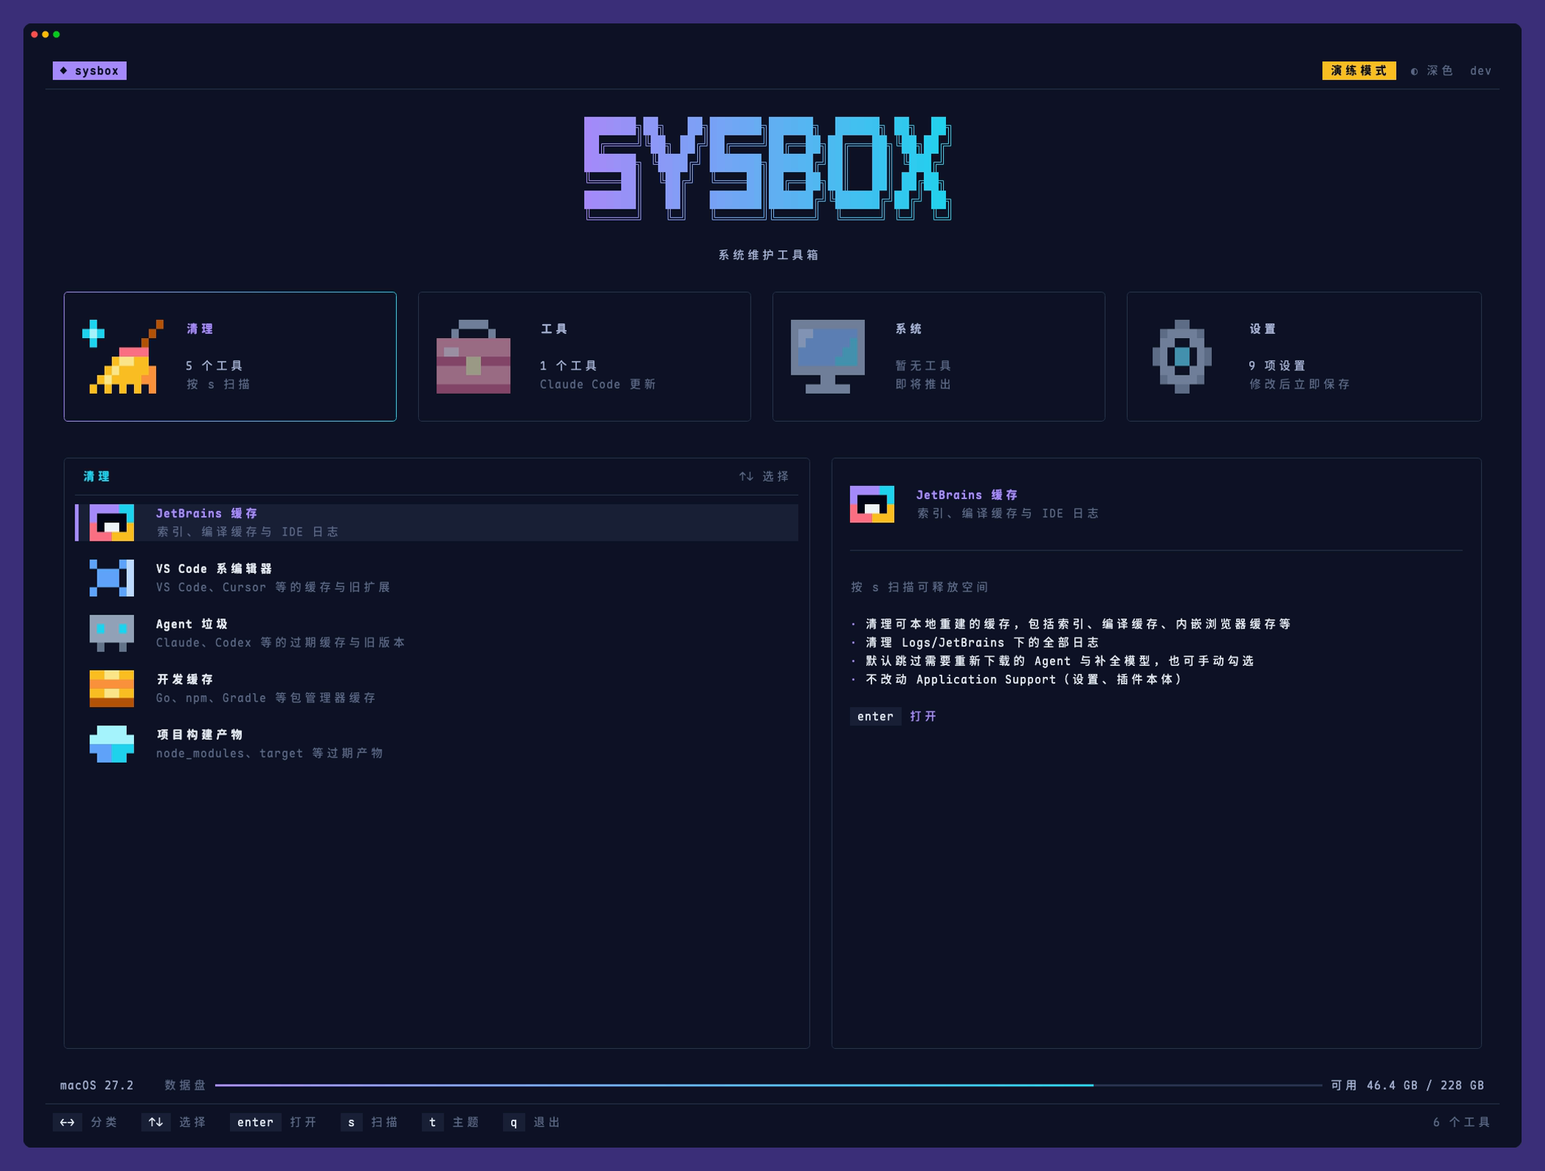
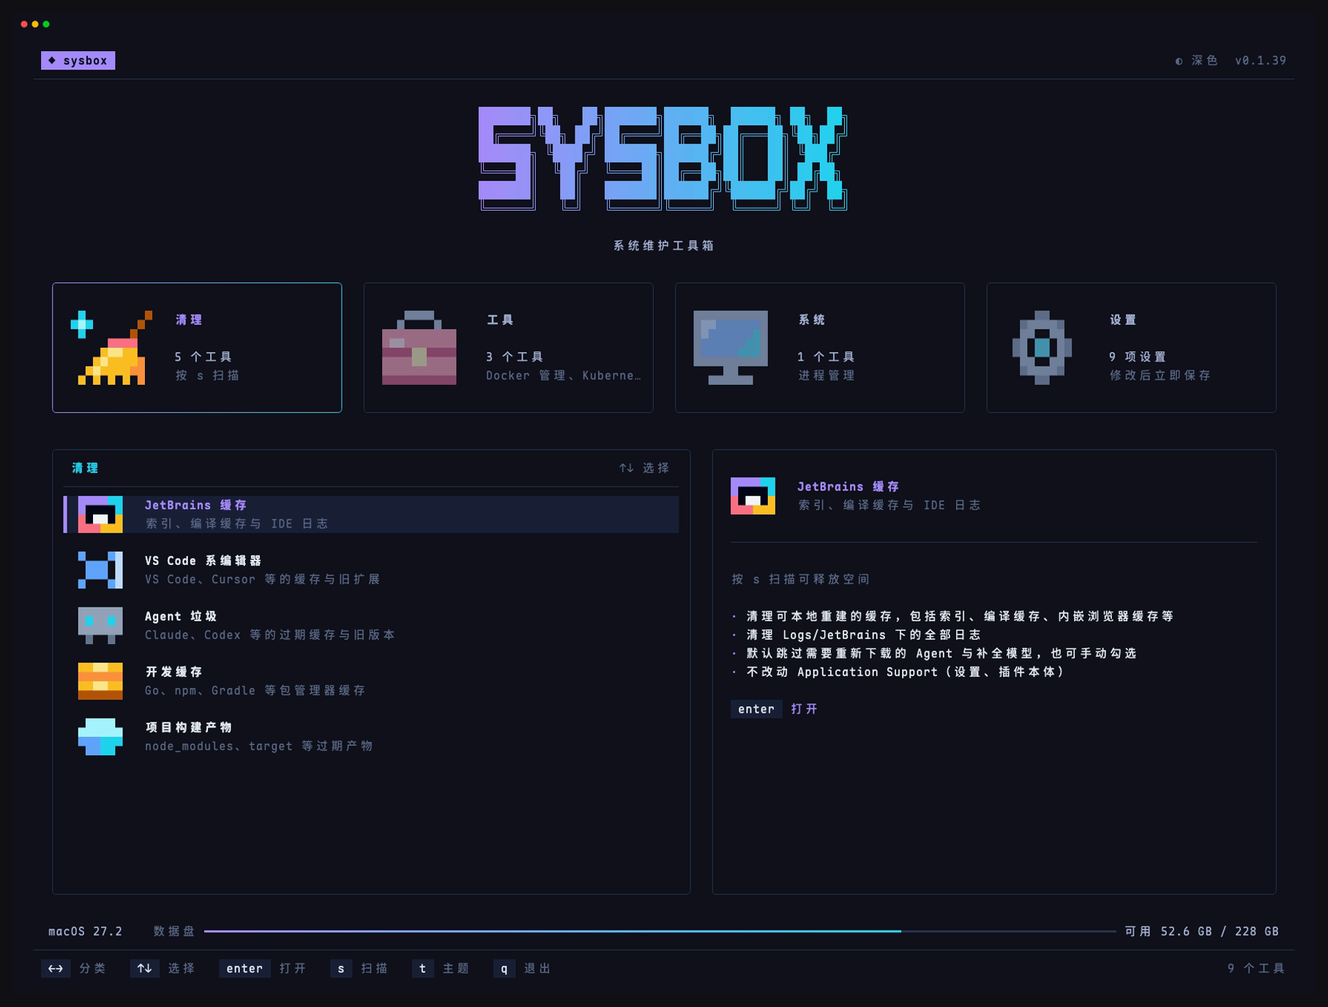
docs: 精简说明并更新工具截图

diff --git a/README.md b/README.md
@@ -1,31 +1,29 @@
-
-
-
-
 # sysbox
 
-跨平台的系统维护工具箱：把零散的清理和工具更新脚本收进一个终端界面，支持 macOS 与 Windows。
+macOS 与 Windows 上的终端系统维护工具箱，集中处理开发缓存清理、容器管理、进程排查和工具更新。
 
 ## 功能
 
-| 分组 | 工具 | 作用 |
+| 分类 | 工具 | 主要功能 |
 |---|---|---|
-| 清理 | JetBrains 缓存 | 清理索引、编译缓存与 IDE 日志；默认跳过需要重新下载的 Agent 与补全模型（可手动勾选），不碰设置与插件目录 |
-| 清理 | VS Code 系编辑器 | 清理 VS Code、Insiders、Cursor、Windsurf、Trae 的旧扩展、旧服务端、可重建缓存、日志和崩溃报告；设置、当前引用版本和未知目录默认不勾选，可手动纳入 |
-| 清理 | Agent 垃圾 | 默认清理 Claude、Codex、OpenCode 等超过保留期的缓存；近期缓存、日志、旧版本和疑似备份可手动勾选 |
-| 清理 | 开发缓存 | 清理 Go、npm、pnpm、Yarn、Bun、pip、uv、Gradle、Maven、Cargo、Homebrew 的缓存；构建依赖默认不勾选 |
-| 清理 | 项目构建产物 | 查找长期未活动项目的 node_modules、target、build、.venv 等构建产物 |
-| 工具 | Docker 管理 | 筛选容器与镜像，批量启停、查看日志、进入终端、拉取与删除镜像 |
-| 工具 | Kubernetes 管理 | 切换集群和命名空间，管理 Deployment、ConfigMap、Pod、Node |
-| 工具 | Claude Code 更新 | 断点续传下载指定版本，SHA-256 校验后调用官方安装 |
-| 系统 | 进程管理 | 定时刷新进程与端口，按资源占用排序，查看父子进程、网络连接与环境变量 |
-| 设置 | 配置项 | 在首页直接修改主题、列表图标、界面动画、更新检查、清理保留天数、项目扫描目录与 Claude 下载代理，修改后立即保存 |
+| 清理 | JetBrains 缓存 | 清理 IDE 索引、编译缓存与日志 |
+| 清理 | VS Code 系编辑器 | 清理 VS Code、Cursor、Windsurf、Trae 等编辑器的缓存、旧扩展与旧服务端 |
+| 清理 | Agent 垃圾 | 清理 Claude、Codex、OpenCode 等工具的过期缓存与旧版本 |
+| 清理 | 开发缓存 | 清理 Go、npm、pnpm、pip、uv、Gradle、Maven、Cargo 等开发工具的缓存 |
+| 清理 | 项目构建产物 | 查找旧项目中的 node_modules、target、build、.venv 等产物 |
+| 工具 | Docker 管理 | 查询容器与镜像，批量启停、查看实时日志、进入终端、拉取与删除镜像 |
+| 工具 | Kubernetes 管理 | 切换集群与命名空间，管理 Deployment、ConfigMap、Pod、Node |
+| 工具 | Claude Code 更新 | 下载指定版本，校验后调用官方安装 |
+| 系统 | 进程管理 | 查看 CPU、内存、端口、网络连接、父子进程与环境变量，搜索并结束进程 |
+| 设置 | 首页设置 | 调整主题、动画、保留天数、扫描目录、下载代理与更新检查 |
 
-清理操作执行前会确认；Docker 与 Kubernetes 的日常管理使用快捷键直接执行，删除资源和排空节点采用就地确认。加上 `--dry-run` 可以完整走一遍流程而不做任何修改。首页按 `s` 可以一次扫描全部清理工具，列出各自可释放的空间与合计。
+支持一键扫描可释放空间、深浅主题和键盘操作。清理前可勾选条目并确认，也可用 `--dry-run` 演练流程。
+
+Docker 管理需要 Docker CLI 与运行中的引擎；Kubernetes 管理需要 kubectl 与集群访问权限。
 
 ## 安装
 
-支持 macOS 与 Windows，x86_64 与 ARM 架构均可。
+支持 macOS 与 Windows 的 ARM64、x86_64 版本。
 
 macOS：
 
@@ -33,192 +31,45 @@ macOS：
 curl -fsSL https://raw.githubusercontent.com/KevinXC5/sysbox/main/install.sh | bash
 ```
 
-默认安装到 `~/.local/bin/sysbox`，可用 `SYSBOX_INSTALL_DIR` 指定目录，用 `SYSBOX_VERSION=v0.1.12` 安装指定版本。
-
 Windows（PowerShell）：
 
 ```powershell
 irm https://raw.githubusercontent.com/KevinXC5/sysbox/main/install.ps1 | iex
 ```
 
-默认安装到 `%LOCALAPPDATA%\Programs\sysbox` 并加入用户 PATH，当前终端可直接运行 `sysbox`，同样支持 `SYSBOX_INSTALL_DIR` 与 `SYSBOX_VERSION` 环境变量。建议使用 Windows Terminal 运行。
-
-## 升级
-
-- 界面每次启动时检查一次新版本，有更新时顶栏会提示，首页按 `u` 查看更新内容并升级、重启
-- 也可以在命令行执行 `sysbox update`，升级前会列出更新内容
-- 在首页「设置」中关闭「启动时检查更新」，或在配置文件中设置 `"update": {"disable_check": true}`，可关闭自动检查
-
-## 卸载
-
-```bash
-sysbox uninstall          # 删除程序，Windows 上同时从用户 PATH 移除安装目录，保留配置文件
-sysbox uninstall --purge  # 同时删除配置目录
-```
-
-卸载前会列出要执行的操作并确认，加 `-y` 跳过确认，加 `--dry-run` 只查看不执行。
+也可以从 [GitHub Releases](https://github.com/KevinXC5/sysbox/releases/latest) 下载。Windows 建议使用 Windows Terminal。
 
 ## 使用
 
 ```bash
-sysbox                 # 打开界面
-sysbox jetbrains       # 直接打开某个工具，工具名见 sysbox list
-sysbox vscode          # 清理 VS Code、Cursor 等编辑器的旧版本、缓存与日志
-sysbox devcache        # 清理包管理器与构建工具的缓存
+sysbox                 # 打开工具箱
+sysbox list            # 列出全部工具
+sysbox devcache        # 直接打开开发缓存清理
 sysbox docker          # 管理 Docker 容器与镜像
 sysbox k8s             # 管理 Kubernetes 资源
-sysbox processes       # 查看进程、端口与环境变量
-sysbox projects        # 清理长期未活动项目的构建产物
-sysbox --dry-run vscode # 演练 VS Code 清理，不删除文件
-sysbox --dry-run       # 演练模式
-sysbox --theme light   # 指定主题：auto、light、dark
-sysbox list            # 列出全部工具
-sysbox update          # 升级到最新版本
-sysbox version         # 显示版本号
+sysbox processes       # 查看进程与端口
+sysbox --dry-run       # 演练模式，不执行修改
 ```
 
-通用按键：`↑↓` 移动，`enter` 确认，`esc` 返回，`t` 切换主题，`ctrl+c` 退出。各页面的其余按键显示在底栏。
+使用方向键选择、`enter` 确认、`esc` 返回；各工具的快捷键显示在界面底栏。主题默认跟随终端，按 `t` 切换。常用配置可以在首页「设置」中直接修改。
 
-主题默认跟随终端背景色自动选择深色或浅色，按 `t` 在 自动 → 浅色 → 深色 之间切换，选择会被记住。
+## 更新与卸载
 
-### 首页
-
-- 顶部是「清理」「工具」「系统」「设置」四个分类方块，用 `←→` 切换；下方列出当前分类的条目，用 `↑↓` 选择，右侧显示详情。
-- 按 `s` 一次扫描全部清理工具，方块和列表显示各自可释放的空间，底栏显示合计；从工具返回首页时会重新统计该工具
-- 「设置」分类里的配置项按 `enter` 切换取值，扫描目录、代理地址等文字配置按 `enter` 编辑，修改后立即写入配置文件
-- 打开工具时分类方块向上收成顶部的分类条，返回首页时再展开；动画约 0.2～0.3 秒，可在「设置」中关闭
-- 图标用字符色块绘制，不依赖字体，需要终端支持真彩色；窗口达到约 50 行时显示大字 Logo
-
-### 进程管理
-
-从「系统」打开「进程管理」，或运行 `sysbox processes`。全宽表格显示进程、CPU、内存、用户和监听端口，默认按 CPU 降序排列，每 2 秒自动刷新。进入页面不选中任何进程，按方向键后才显示高亮，高亮保持在当前行。按 `enter` 打开接近主体全屏的详情弹窗，同时以三列查看基本信息、端口与连接、环境变量；弹窗绑定进程身份，刷新时保持详情滚动位置。
-
-- `/` 搜索名称、PID、完整命令、端口与地址，多个查询词都需匹配。文本支持模糊匹配，纯数字精确匹配 PID 或监听/绑定端口；`port:5353` 只查监听/绑定端口，`pid:5353` 只查 PID，数字不匹配命令行或活动连接；弹窗中 `f` 查询详情。`enter` 完成查询，`esc` 清空查询。
-- `s` 切换 CPU、内存、名称、PID、监听端口排序，`S` 切换升降序。端口排序取最小监听或绑定端口，无端口的进程始终排最后。
-- `p` 暂停或恢复自动刷新，`i` 在 1、2、5 秒之间切换间隔，`r` 手动刷新并重新读取当前进程环境。采集不会重叠，CPU 按两次采样的累计时间差计算，100% 表示一个逻辑核心，首次采样需要等待基线。
-- 表格中 `↑↓` 选择进程，`enter` 打开详情，`esc` 取消选择，再按一次返回首页。弹窗中基本信息、端口与连接、环境变量同时显示，默认高亮基本信息列；`←→` 切换当前列，`↑↓` 只滚动当前列，各列保留独立的滚动位置，`esc` 关闭弹窗。
-- 基本信息包含完整命令、路径、用户、启动时间和父子进程。端口列表显示 TCP 监听与 UDP 绑定，右侧包含活动连接；部分进程的信息可能受权限限制。
-- 环境变量按需读取，代理变量优先显示，并对比当前进程和父进程的代理变量。凭据与代理认证默认遮蔽，详情弹窗按 `v` 显示或隐藏原始值。环境读取失败会明确提示原因；父子差异用于排查当前环境，不代表启动时的完整继承历史。
-- `space` 多选，`d` 请求正常结束，`D` 强制结束；在弹窗中按 `y` 确认或 `esc` 取消。操作前重新核对进程身份。macOS 正常结束发送 SIGTERM；Windows 正常结束请求关闭应用窗口，无窗口进程需要程序自己的退出方式或强制结束。
-
-运行 `sysbox --dry-run processes` 可演练结束操作，进程、端口和环境仍正常读取。进程管理只查看现有环境，代理变量应在启动方配置并传给子进程。
-
-### Docker 管理
-
-从「工具」打开「Docker 管理」，或运行 `sysbox docker`。需要安装 Docker CLI 并启动 Docker 引擎，支持 Docker Desktop、OrbStack 与已有的远程 Docker context。
-
-界面左侧五分之二是资源列表，右侧五分之三是选中资源的信息表。资源筛选位于左侧列表上方，资源标签以底色标识当前选中项，旁边提示 `Tab` 切换资源。`←→` 切换左右面板，高亮边框标识当前面板；左侧 `↑↓` 选择资源，右侧 `↑↓` 滚动内容。选择资源时信息自动更新，表格上方显示当前可用的操作快捷键。信息表按卷与挂载、网络与端口、运行配置、资源与权限、健康检查、日志与存储分组，显示卷名、源路径、目标路径、读写方式、IP、网关、DNS、环境变量、CPU 和内存限制等。镜像显示声明卷、入口程序、启动参数、健康检查、镜像层，以及关联容器的实际挂载。敏感环境变量值隐藏。界面只显示操作结果和资源信息。
-
-- `Tab` 切换容器和镜像（`Shift+Tab` 反向），`/` 实时模糊查询，`r` 刷新，`c` 就地切换 Docker 环境，仅影响当前工具。
-- 容器：`l` 实时日志，`e` 直接进入默认 `/bin/sh`，`E` 输入其他 Shell，`s` 启动、停止或恢复（按状态变化），`R` 重启，`a` 暂停，`d` 删除。
-- 镜像：`p` 输入镜像名称拉取（默认填入当前镜像），`P` 拉取所有本地有标签的镜像，`s` 创建容器，`g` 添加标签，`d` 删除。镜像名称、容器名称和标签直接在右侧输入，按 `enter` 执行。创建容器使用镜像默认命令、后台运行，不自动配置端口和目录挂载。
-- `space` 多选容器或镜像，随后使用对应快捷键批量操作，提示只显示所选资源共有的操作。日志和终端针对当前光标所在资源；筛选隐藏的已选项仍参与批量操作，底栏显示已选数量。
-- 实时日志显示在右侧，打开后持续接收并自动滚到底部。按 `space` 暂停或恢复自动滚动；暂停时继续接收新日志并显示数量，恢复后回到最新内容。右侧使用 `↑↓` 逐行滚动、`PgUp/PgDn` 翻页、`ctrl+u/ctrl+d` 逐段滚动，手动滚动会自动暂停跟随。`b` 或 `esc` 返回基础信息，选择其他资源后自动关闭旧日志连接。日志保留最近 2000 行且最多 2 MiB，暂停时保持当前阅读快照。
-- 删除按 `d` 后在右侧列出目标，按 `y` 确认，`esc` 取消。容器需要先停止，删除保留卷和镜像；镜像只删除所选标签，无标签镜像按 ID 删除，不强制删除使用中的镜像。
-
-资源查询支持名称、ID、镜像、状态、命名空间等字段，不区分大小写，支持跳字匹配及多个空格分隔的关键词。例如 `ngnx run` 可查找运行中的 nginx 容器。输入时 `↑↓` 选择，`enter` 保留查询并恢复快捷键，`esc` 一次清空。右侧按 `f` 模糊查询字段和内容，例如查询“挂载”可直接定位卷与挂载信息，日志同样支持内容查询。环境和命名空间选择列表可直接输入名称模糊查询。
-
-运行 `sysbox --dry-run docker` 可演练操作；列表、基础信息和日志正常读取，修改仅显示操作摘要，不会执行。
-
-### Kubernetes 管理
-
-从「工具」打开「Kubernetes 管理」，或运行 `sysbox k8s`。需要安装 `kubectl`，通过 kubeconfig 配置集群，并具有对应资源的访问权限。
-
-左侧列出资源，右侧自动显示基础信息表，包括命名空间、创建时间、副本数、容器就绪状态、镜像、节点地址和容量等。`/` 支持多个关键词和跳字匹配，`f` 查询右侧信息或日志；集群、命名空间和 Pod 容器选择时可直接输入名称过滤。表格上方按当前资源显示快捷键，日常操作直接执行，参数就地输入。`←→` 切换左右面板，边框高亮当前面板；左侧 `↑↓` 选择资源，右侧 `↑↓` 滚动信息。
-
-- `Tab` 切换 Deployment、ConfigMap、Pod、Node（`Shift+Tab` 反向），`/` 实时模糊查询，`r` 刷新。
-- `c` 就地选择集群，`n` 选择命名空间；没有列出命名空间的权限时，按 `N` 手动输入。选择 `*` 可查看全部命名空间，节点始终按集群范围查询。
-- 工具不改写全局 kubeconfig。操作始终绑定所选集群和资源自身的命名空间。
-- Deployment：`l` 实时日志，`s` 输入副本数并扩缩容，`R` 滚动重启，`u` 发布状态，`e` 编辑 YAML。副本数可设为 `0`。
-- ConfigMap：`e` 编辑 YAML，遵循 `KUBE_EDITOR` / `EDITOR` 设置，保存后提交到集群。
-- Pod：`l` 全部容器实时日志，`e` 进入 `/bin/sh`；多个容器时直接在右侧选择。`d` 删除，控制器管理的 Pod 通常会自动重建。
-- Node：`s` 禁止或恢复调度，`D` 排空。排空遵守 PDB、忽略 DaemonSet，不强制驱逐有本地数据或非托管的 Pod；排空失败后节点可能仍禁止调度，可按 `s` 恢复。
-- 实时日志默认自动滚动，按 `space` 暂停或恢复；暂停时继续接收。切换资源、返回详情或离开工具时关闭日志连接。
-- `v` 查看 YAML，`i` 查看详细状态；内容显示在右侧，`PgUp/PgDn` 翻页，`b` 返回基础信息。
-- 删除和节点排空在右侧就地确认，按 `y` 执行。`sysbox --dry-run k8s` 仅显示操作摘要，交互编辑和容器终端也不会执行。
-
-### VS Code 系编辑器
-
-从首页选择「VS Code 系编辑器」，或运行 `sysbox vscode`。支持 macOS 与 Windows 上默认目录中的 VS Code、VS Code Insiders、Cursor、Windsurf、Trae、Trae CN，以及当前用户目录中对应的远程服务端。
-
-- 默认可清理的是可重建缓存、扩展安装包缓存、日志、崩溃报告，以及已确认落后且未被引用的旧扩展。
-- 设置、快捷键、工作区状态、未保存文件备份、当前引用版本、同平台最新版本和未知目录默认不勾选。手动勾选后按不可恢复处理，删除前会再核对一次。
-- 旧服务端仅在版本信息足够时列出，默认不勾选。手动清理前请停止相关服务端，再次连接相应版本时需要重新下载。读不到版本的安装不能勾选。
-- 扩展索引缺失或损坏时整组不可选。符号链接不跟随目标。应用数据、扩展目录和服务端根目录本身不会删除。不扫描自定义数据目录或便携安装目录。
-
-清理前需要退出所选条目涉及的编辑器，未勾选的编辑器可以继续运行。先运行 `sysbox --dry-run vscode` 可查看扫描结果并演练清理流程。
-
-### 开发缓存
-
-从首页选择「开发缓存」，或运行 `sysbox devcache`。
-
-- 默认勾选只影响下次安装速度的缓存：Go 构建缓存，npm、Yarn、Bun、pip、uv、Homebrew 的下载缓存，Gradle 构建缓存，Cargo 解压的源码。
-- 构建依赖默认不勾选，删除后需要联网重新下载：Go 模块缓存、pnpm store、Gradle 依赖缓存、Maven 本地仓库、Cargo 压缩包缓存。Maven 仓库里 `mvn install` 安装的构件删除后无法重新下载。
-- Gradle 的 `caches/<版本>`、`daemon/<版本>` 与 `wrapper/dists` 只保留最高版本。
-- 缓存位置优先询问工具本身（如 `go env`），其次读取 `GOMODCACHE`、`GRADLE_USER_HOME`、`CARGO_HOME` 等环境变量，最后使用默认位置。Go 与 uv 调用官方清理命令，其余直接删除目录；符号链接不能勾选。
-- pnpm store 被项目的 node_modules 以硬链接引用，项目仍在时实际释放会少于显示大小。
-
-### 项目构建产物
-
-从首页选择「项目构建产物」，或运行 `sysbox projects`。
-
-- 在项目目录下查找 node_modules、.next、target、build、dist、.gradle、.dart_tool、.build、obj、bin、.venv 等构建产物。产物旁必须有对应的项目文件（如 package.json、Cargo.toml、pom.xml、build.gradle、*.csproj）才会列出。
-- build、target、bin、obj 这类常见目录名还要有构建工具留下的特征才算产物，如 Gradle 的 classes、libs、tmp，Maven 的 classes、maven-status、jar 包，Cargo 的 CACHEDIR.TAG。前端的 build、dist 要求有网页资源，并由 git 确认已被忽略且没有受控文件；没装 git 或不在仓库里的不列出。
-- 项目的活跃时间取 `.git` 状态文件与浅层源码的最新修改时间。超过保留期未活动的项目默认勾选，近期项目可手动勾选。Python 虚拟环境默认不勾选。
-- 未配置 `projects.roots` 时扫描整个家目录。不跟随符号链接，不进入 Library、AppData、图片与影音目录、Scoop 与 Conda 安装目录、Go 模块缓存和隐藏目录。
-
-### Agent 垃圾
-
-从首页选择「Agent 垃圾」，或运行 `sysbox agent`。
-
-- 默认勾选超过保留期的缓存。日志、保留期内仍有修改的缓存默认不勾选，可手动纳入。
-- 能确认的旧版本默认勾选；当前版本和最高版本不列入清理。当前版本通过版本链接确认；Windows 上 Claude 的 claude.exe 是从版本目录复制出来的独立文件，只保留最高版本（可能是已下载、尚未安装的更新）。
-- 无法确认当前版本时（如 Windows 上的 Codex、Grok），候选版本进入待核查，默认不勾选，可手动删除。单文件安装的疑似备份同样如此。
-- 目录内指向外部的符号链接、检查失败的条目不能勾选。删除前复核路径、inode 和当前版本，目标有变化会跳过。会话、凭据、插件和配置不在扫描范围内。
-
-## 配置
-
-首页「设置」分类可以直接修改下列配置，修改后立即写入配置文件。配置文件位于 `~/.config/sysbox/config.json`（遵循 `XDG_CONFIG_HOME`），Windows 上位于 `%APPDATA%\sysbox\config.json`。所有字段都可省略：
-
-```json
-{
-  "theme": "auto",
-  "icons": "show",
-  "animation": "on",
-  "agent": { "keep_days": 30 },
-  "projects": { "roots": ["~/Github"], "keep_days": 30 },
-  "claude": { "proxy": "http://127.0.0.1:7890", "direct": false },
-  "update": { "disable_check": false }
-}
+```bash
+sysbox update            # 更新到最新版本
+sysbox uninstall         # 卸载程序，保留配置
+sysbox uninstall --purge # 卸载程序并删除配置
 ```
 
-| 字段 | 说明 |
-|---|---|
-| `theme` | 主题：`auto`、`light`、`dark`，默认 `auto` |
-| `icons` | 首页列表的像素图标：`show` 显示，`none` 关闭，默认 `show` |
-| `animation` | 进入和退出工具页的过渡动画：`on` 开启，`off` 关闭，默认 `on` |
-| `update.disable_check` | 关闭启动时的新版本检查 |
-| `agent.keep_days` | 缓存与日志的保留天数，默认 30 |
-| `projects.roots` | 扫描构建产物的项目目录，支持 `~` 开头；省略时扫描整个家目录 |
-| `projects.keep_days` | 项目多少天未活动算过期，默认 30 |
-| `claude.proxy` | 下载 Claude Code 使用的代理；代理不可用时自动直连。也可用环境变量 `PROXY_URL` 覆盖 |
-| `claude.direct` | 始终直连，等同于环境变量 `CLAUDE_NO_PROXY=1` |
+启动时会检查新版本，也可以在首页根据提示更新。
 
 ## 截图
 
-| | |
+| 深色主题 | 浅色主题 |
 |---|---|
-| ![首页](docs/screenshots/dark/01-home.png) | ![首页一键扫描](docs/screenshots/dark/01-home-scan.png) |
-| ![JetBrains 缓存](docs/screenshots/dark/02-jetbrains.png) | ![确认弹窗](docs/screenshots/dark/03-devcache-confirm.png) |
-| ![清理完成](docs/screenshots/dark/04-devcache-done.png) | ![Agent 垃圾](docs/screenshots/dark/05-agent.png) |
-| ![VS Code 缓存](docs/screenshots/dark/06-vscode.png) | ![开发缓存](docs/screenshots/dark/07-devcache.png) |
-| ![项目构建产物](docs/screenshots/dark/08-projects.png) | ![Claude Code 更新](docs/screenshots/dark/10-claude.png) |
-| ![设置](docs/screenshots/dark/01-home-settings.png) | |
-
-浅色主题：
-
-| | |
-|---|---|
-| ![JetBrains 缓存](docs/screenshots/light/02-jetbrains.png) | ![Agent 垃圾](docs/screenshots/light/05-agent.png) |
+| ![首页（深色）](docs/screenshots/dark/01-home.png) | ![首页（浅色）](docs/screenshots/light/01-home.png) |
+| ![开发缓存（深色）](docs/screenshots/dark/07-devcache.png) | ![开发缓存（浅色）](docs/screenshots/light/07-devcache.png) |
+| ![Docker 管理（深色）](docs/screenshots/dark/docker.png) | ![Docker 管理（浅色）](docs/screenshots/light/docker.png) |
+| ![进程管理（深色）](docs/screenshots/dark/processes.png) | ![进程管理（浅色）](docs/screenshots/light/processes.png) |
 
 开发与贡献请参阅[开发指南](CONTRIBUTING.md)。
